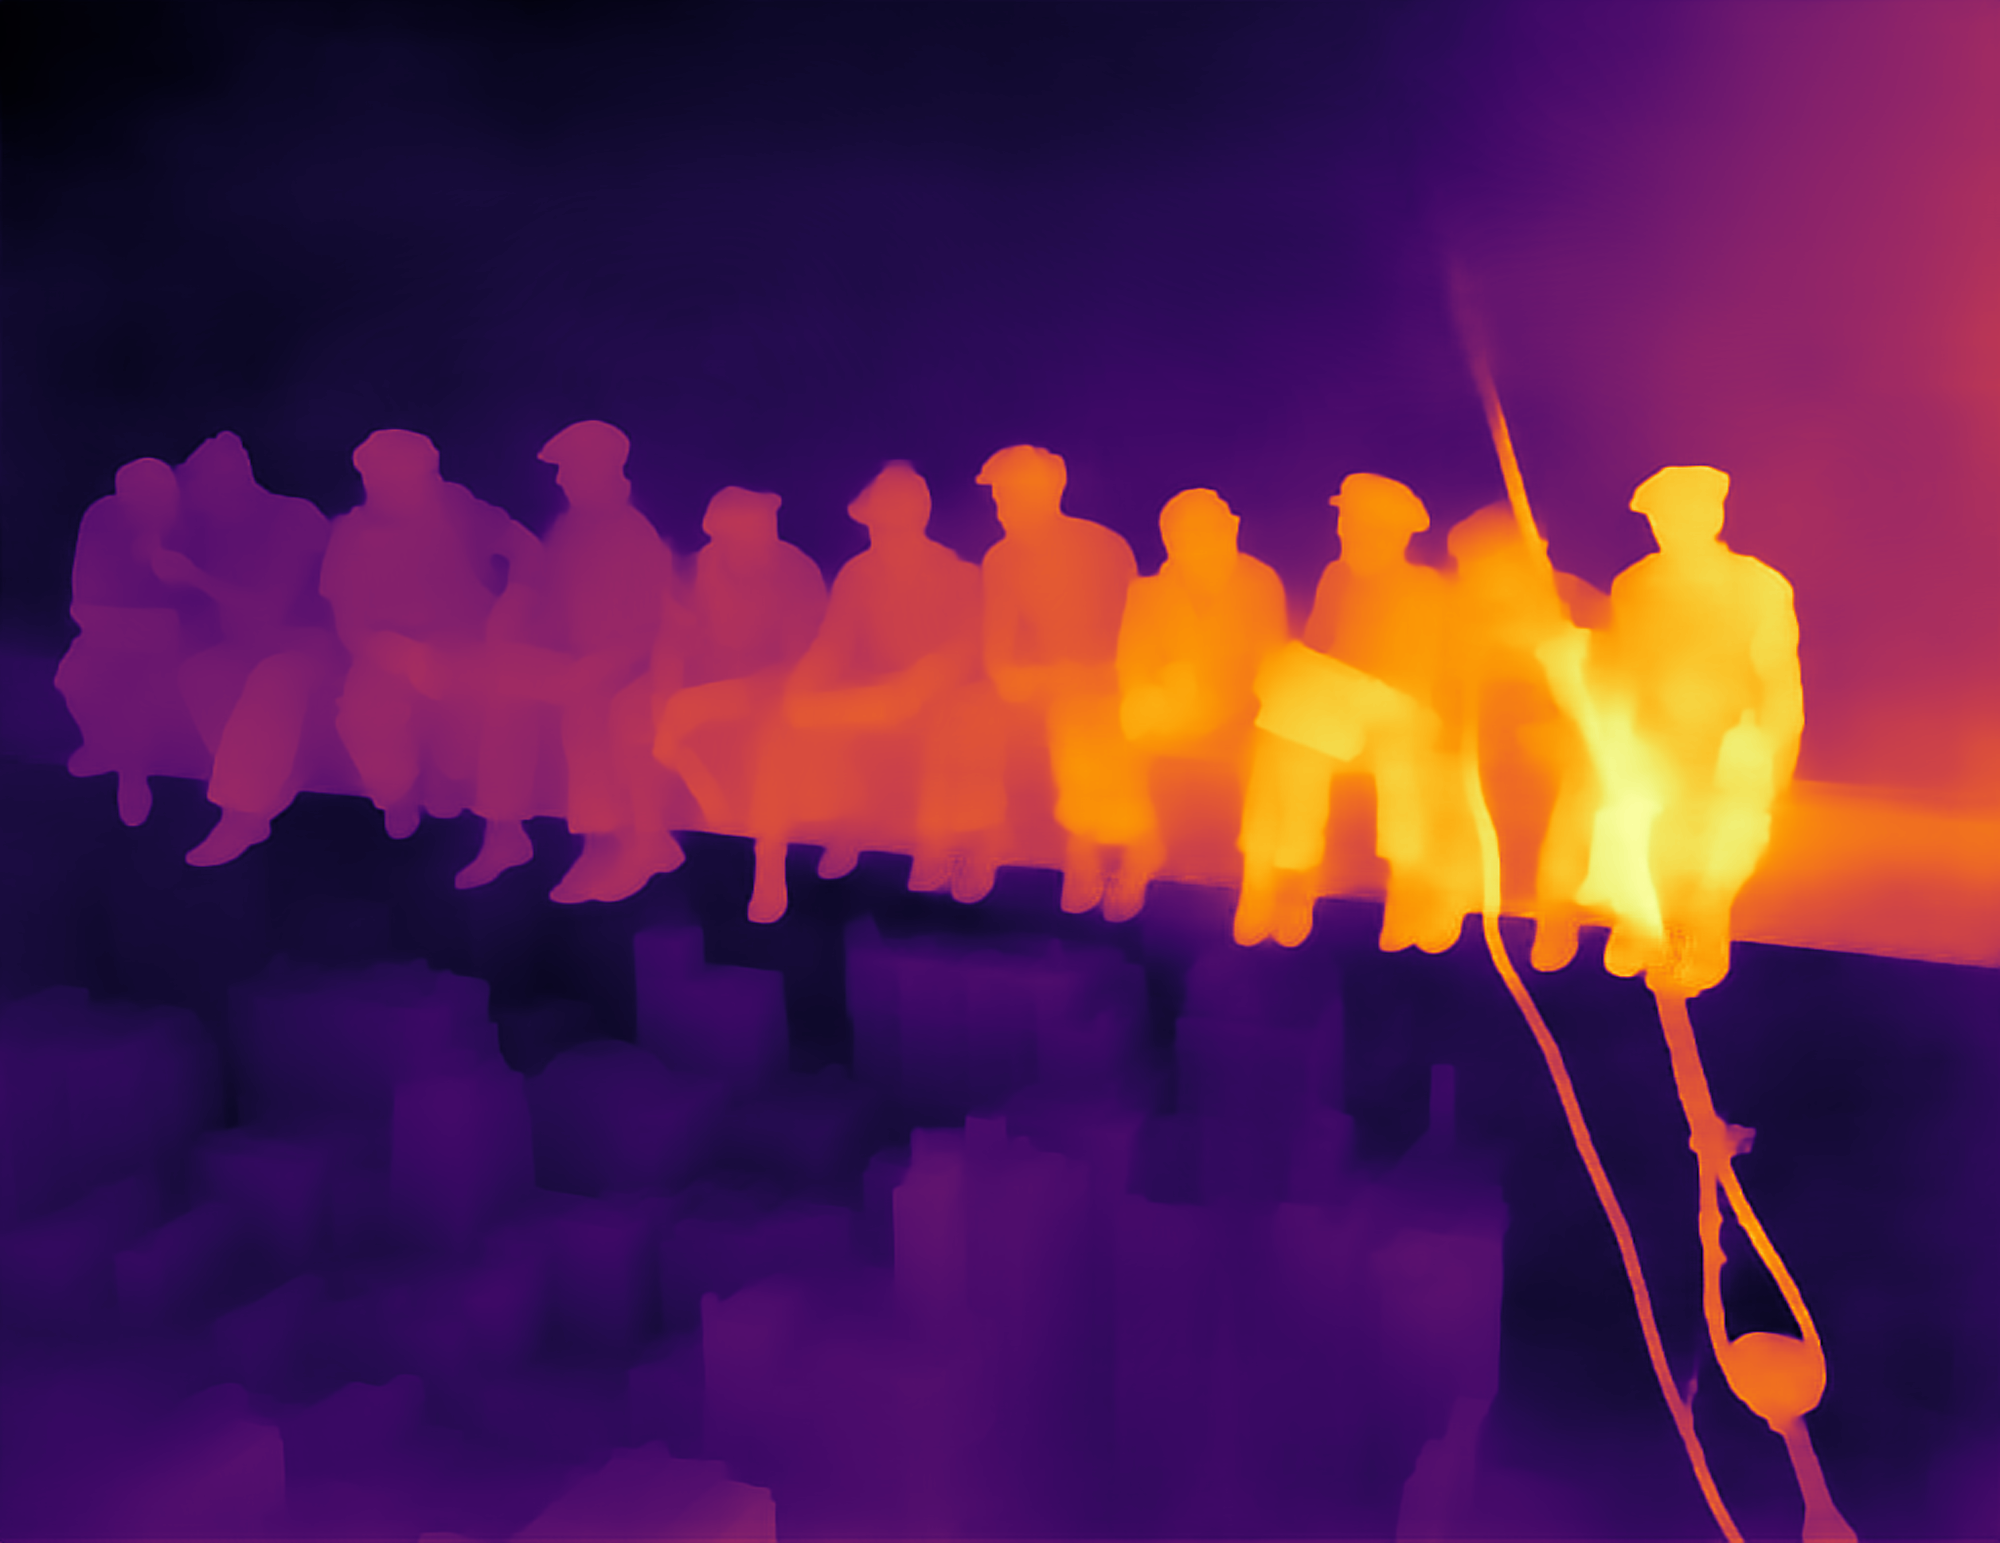
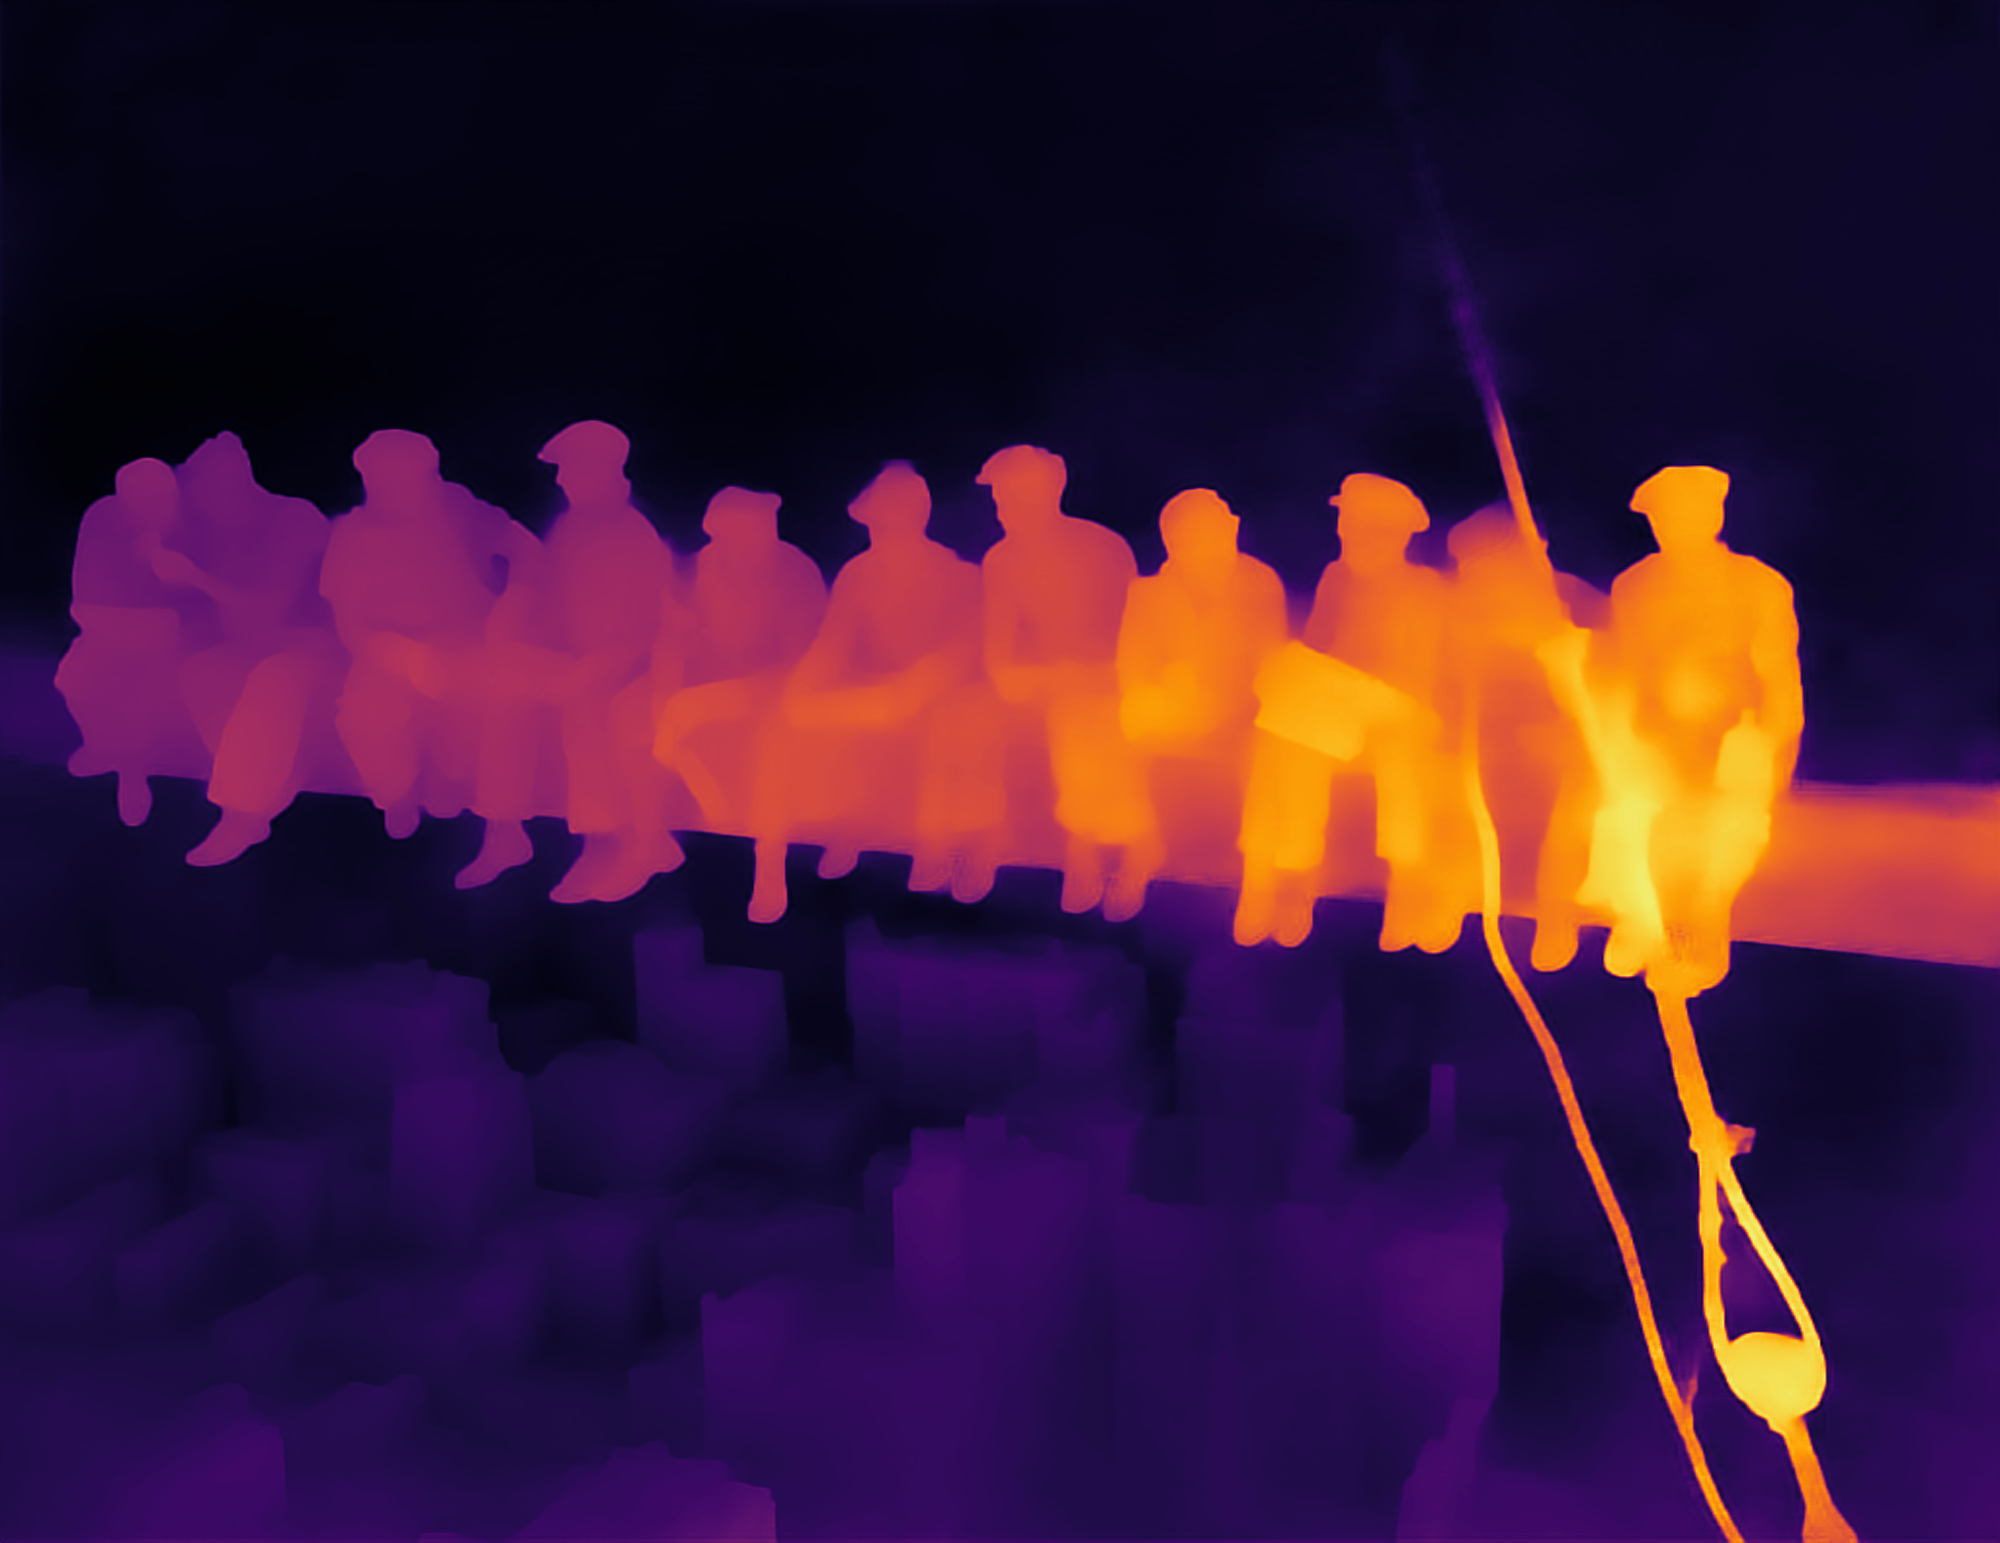
replaced examples

diff --git a/README.md b/README.md
@@ -4,17 +4,19 @@
 
 Our new [Google Colaboratory notebook](./colab/byod.ipynb) is now available.  [October 2021]   [![Open In Colab](https://colab.research.google.com/assets/colab-badge.svg)](https://colab.research.google.com/github/compphoto/BoostYourOwnDepth/blob/main/colab/byod.ipynb)
 
-You can mix'n'match depths from different networks...:
-|RGB | Base and details from [MiDaS][1] | Base from [MiDaS][1] and details from [LeRes][2]|
+Mix'n'match depths from different networks. In the image below, choosing a different base estimate can improve the depth difference between the city and the workers:
+| Input | Base and details from [MiDaS][1] | Base from [LeRes][2] and details from [MiDaS][1]|
 |----|------------|------------|
-|![patchselection](./figures/dts_rgb.jpg)|![patchselection](./figures/dts_midas.png)|![patchselection](./figures/dts_mix.png)|
+|![patchselection](./figures/lunch_rgb.jpg)|![patchselection](./figures/lunch_orig.png)|![patchselection](./figures/lunch_mix.png)|
 
 
-...or use edited depths for improvements:
-|RGB | Base and details from [MiDaS][1] | With edited base from [MiDaS][1]|
+Not enough ? You can also edit the base before merging:
+| Input | Base and details from [MiDaS][1] | With edited base from [MiDaS][1]|
 |----|------------|------------|
 |![patchselection](./figures/lunch_rgb.jpg)|![patchselection](./figures/lunch_orig.png)|![patchselection](./figures/lunch_edited.png)|
 
+
+### Feel free to experiment ! Have your own network ? Better editing skills? Give it a go!
 
 
 For more information on this project:
@@ -45,4 +47,4 @@ year={2021},
 The "Merge model" code skeleton (./pix2pix folder) was adapted from the [pytorch-CycleGAN-and-pix2pix][3] repository.\
 [1]: https://github.com/intel-isl/MiDaS/tree/v2 \
 [2]: https://github.com/aim-uofa/AdelaiDepth/tree/main/LeReS \
-[3]: https://github.com/junyanz/pytorch-CycleGAN-and-pix2pix
+[3]: https://github.com/junyanz/pytorch-CycleGAN-and-pix2pix \
